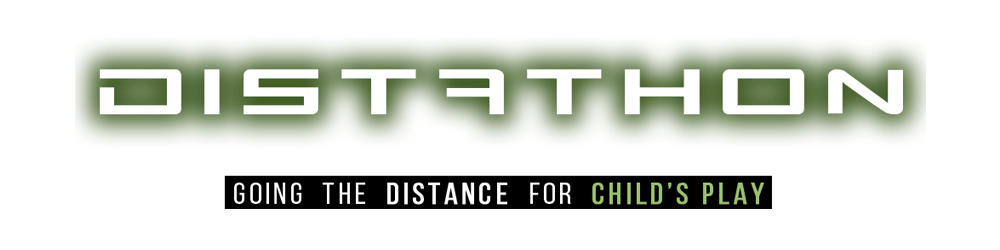
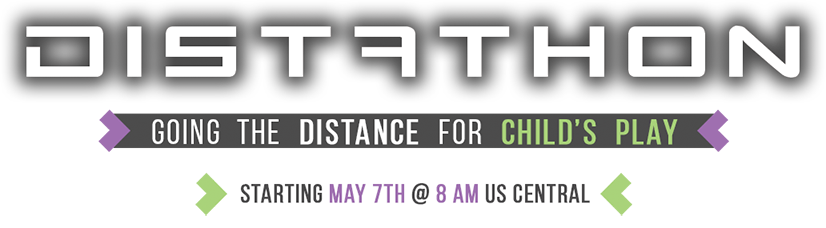
new header

diff --git a/index.html b/index.html
@@ -40,8 +40,8 @@
 		function updateAmount() {
 			$.ajax({
 	                type: "GET",
-					//url: "https://donate.childsplaycharity.org/api/event/8a1ee3ee3bbe5acfa0d295af5d257bcb/json",
-	                url: "https://donate.childsplaycharity.org/api/event/eff5e9ca13c95ce285babe5f60355d21/json",
+					url: "https://donate.childsplaycharity.org/api/event/8a1ee3ee3bbe5acfa0d295af5d257bcb/json",
+	                //url: "https://donate.childsplaycharity.org/api/event/eff5e9ca13c95ce285babe5f60355d21/json",
 	                success: function (data) {
 	                	var cs = $.animateNumber.numberStepFactories.separator(',');
 
